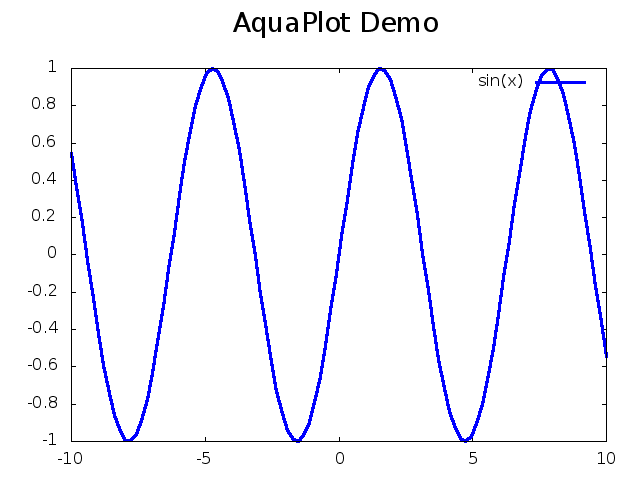
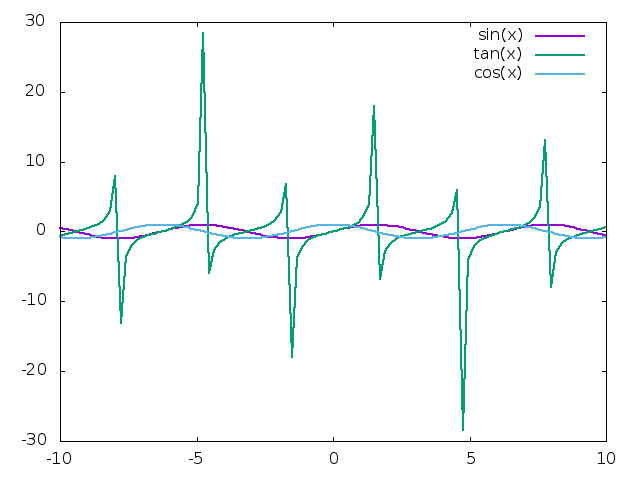
better example plot

diff --git a/README.md b/README.md
@@ -27,9 +27,13 @@ require "aquaplot"
 To create a simple plot from a function:
 
 ```crystal
-fig = AquaPlot::FunctionLine.new "sin(x)", linewidth: 3, linecolor: "#0000FF"
-plt = AquaPlot::LinePlot(AquaPlot::FunctionLine).new fig
-plt.set_title("AquaPlot Demo")
+include AquaPlot
+
+figs = ["sin(x)", "tan(x)", "cos(x)"].map do |fn|
+  FunctionLine.new fn, linewidth: 2
+end
+
+plt = LinePlot(FunctionLine).new figs
 plt.save_fig("static/example_plot.png")
 ```
 
